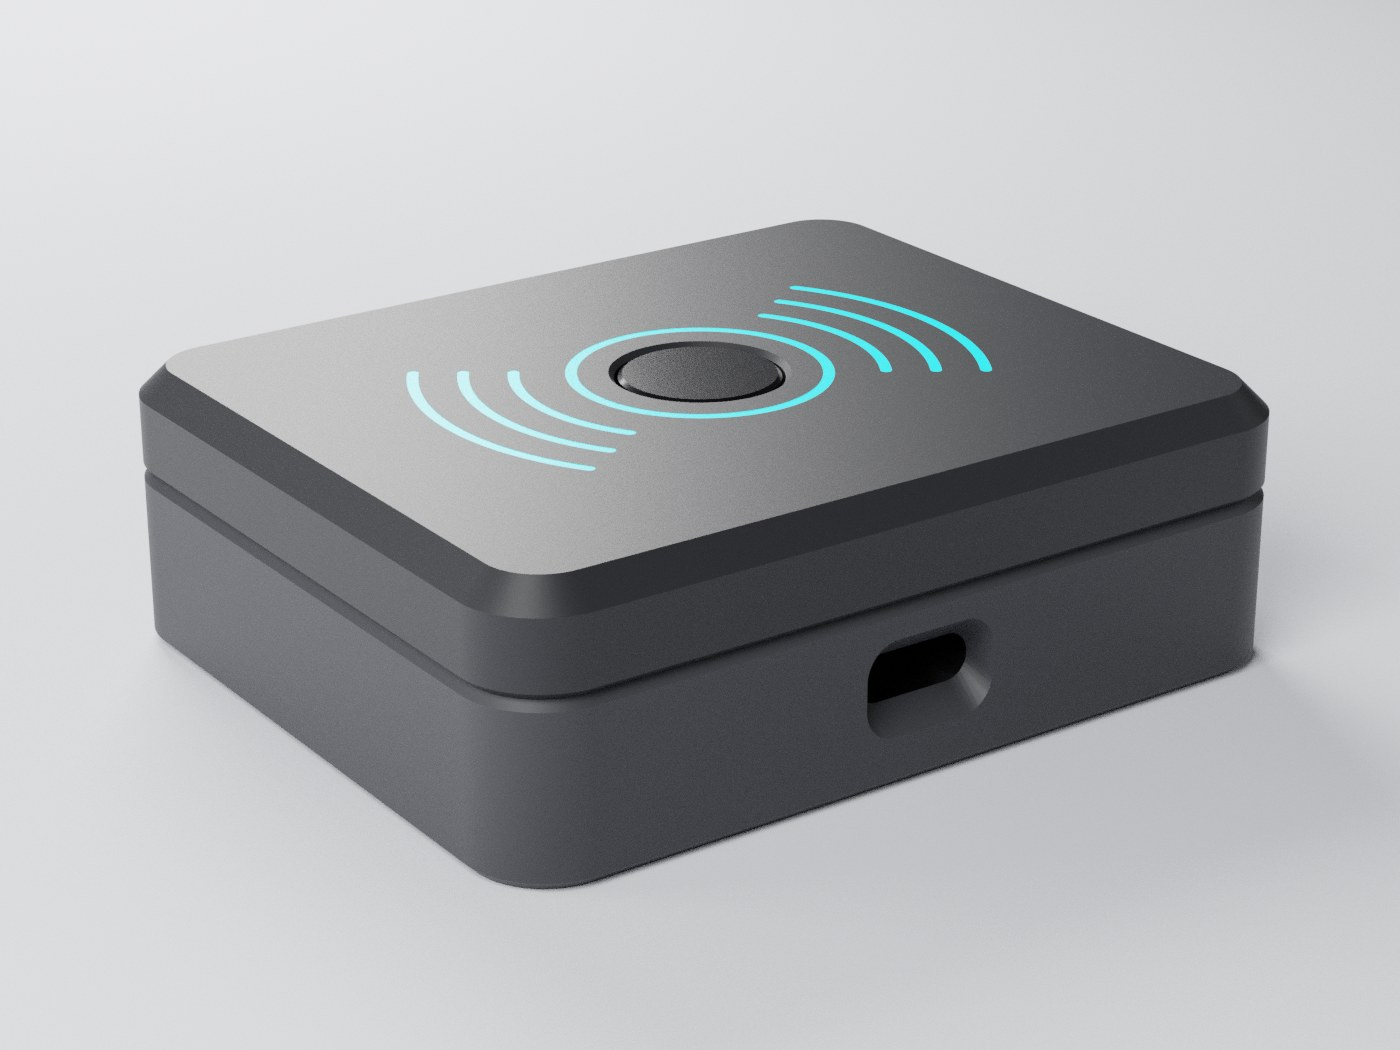
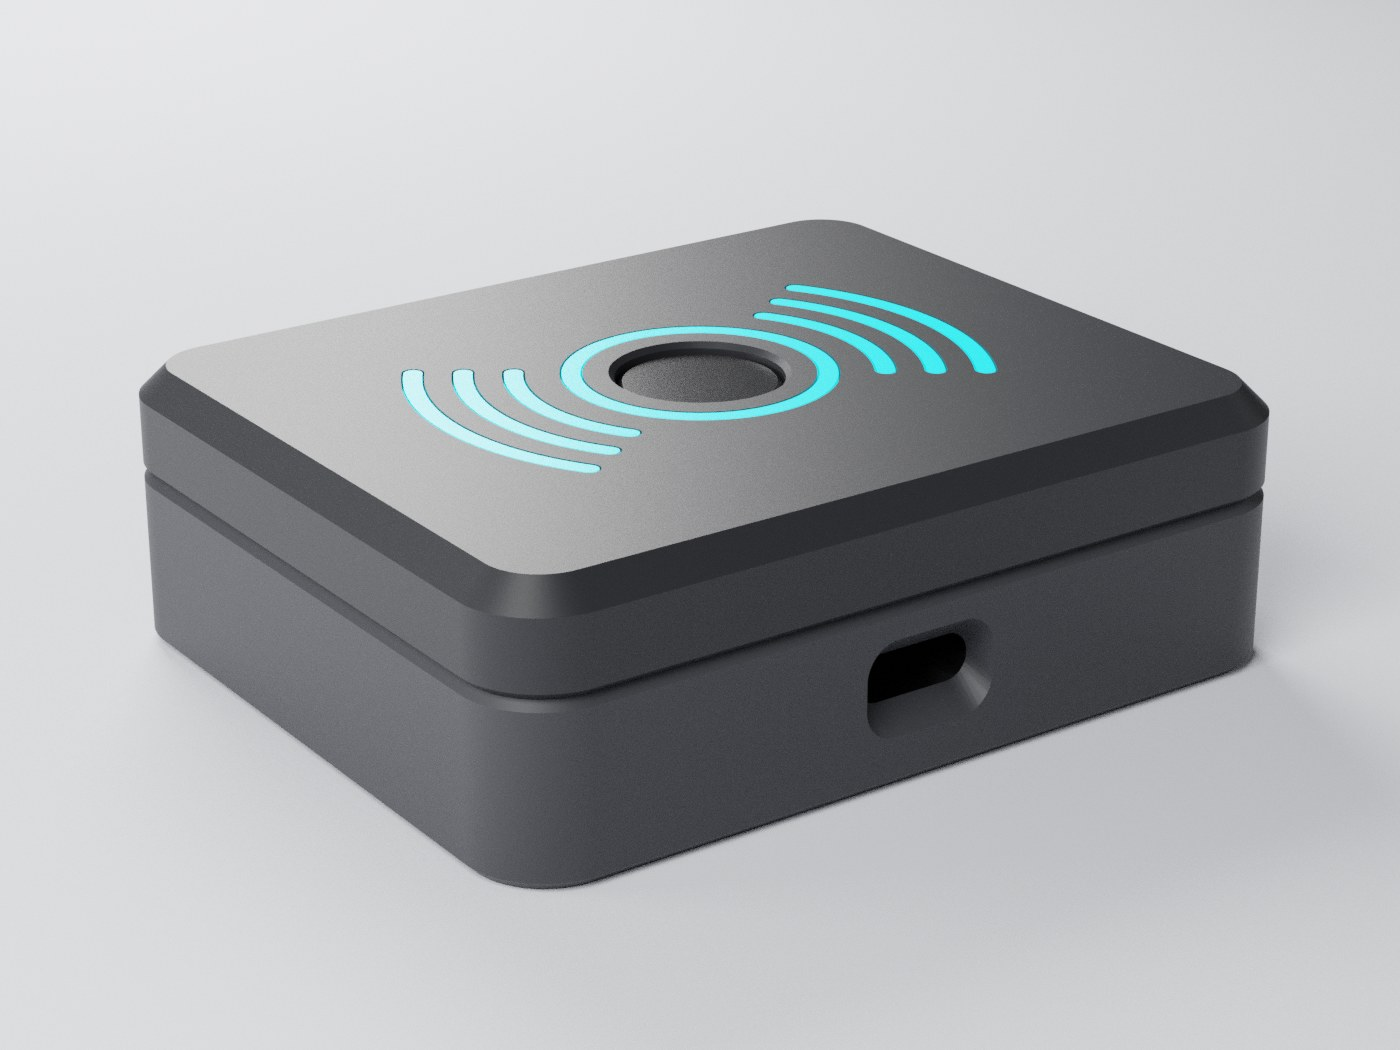
Ust desen: 1.6 x 1.2 mm oyuk ve ayri basilan dolgu parcalari
- Halka ve dalga oyuklari 0.8 -> 1.6 mm genis, 0.4 -> 1.2 mm derin
- Kapak tavani 2.0 -> 2.6 mm; oyuk altinda 1.4 mm kalir
- inlay_baski: oyuktan her kenardan 0.14 mm kucuk (inlay_bosluk),
  1.32 mm genis (0.4 nozulla 3 cizgi), 1.2 mm yuksek dolgu parcalari
- Alt yazi derinligi ayri parametre (0.4 mm)

Claude-Session: https://claude.ai/code/session_01Cw47JAQLn6ddWJcZ3qnMbE

Changed region(s): [[0.2764, 0.2743, 0.7064, 0.4571]]

diff --git a/README.md b/README.md
@@ -25,7 +25,7 @@ konnektorun kendi yuksekliginden hesaplanir (Z = 5.55 .. 8.95).
 ### Tasarim
 
 - Duz ust yuzey, 45 derece pahli ust kenar (isikta keskin bir cizgi verir)
-- Buton cevresinde hale halkasi ve iki yanda "(( o ))" jest dalgalari, 0.4 mm oyma
+- Buton cevresinde hale halkasi ve iki yanda "(( o ))" jest dalgalari: 1.6 mm genis, 1.2 mm derin oyuk + renkli dolgu
 - Kapak / govde birlesiminde 0.6 mm V-golge cizgisi; USB-C ve LED tamamen govdede, birlesim cizgisi portlari kesmiyor
 - Plan kose radiusu 8 -> 6 mm: daha "tech" gorunum
 
@@ -50,16 +50,18 @@ konnektorun kendi yuksekliginden hesaplanir (Z = 5.55 .. 8.95).
 |---|---|---|---|
 | Kapak | `kapak_baski` | ust yuzey | Dokulu PEI tabla premium mat doku verir |
 | Govde | `govde_baski` | taban | |
+| Dolgu | `inlay_baski` | duz | Vurgu renginde, oyuklara bastirilir |
 
 ```
 openscad -D 'goster="kapak_baski"' -o kapak.stl kontrolcukasa.scad
 openscad -D 'goster="govde_baski"' -o govde.stl kontrolcukasa.scad
+openscad -D 'goster="inlay_baski"' -o inlay.stl kontrolcukasa.scad
 ```
 
-**Renkli oyma (tek nozul):** 0.2 mm katmanla kapakta 0.4 mm'den sonraki ilk katmanda (3. katman)
-filament degistir (M600), bir sonraki katmanda ana renge don. Oyuklar vurgu renginde gorunur,
-ust pahta da ince bir vurgu cizgisi cikar. Cok renkli yazicida `inlay_baski` STL'ini kapakla
-ayni nesneye parca olarak ekle.
+**Renkli dolgu (inlay):** ust yuzeydeki halka ve dalgalar 1.6 mm genis, 1.2 mm derin oyuk (tavan 2.6 mm, oyuk altinda 1.4 mm kalir).
+Renkli dolgu parcalari (`inlay_baski`, 7 parca) ayri basilir ve oyuklara bastirilir: her kenardan
+0.14 mm kucuk (`inlay_bosluk`, 0.12 - 0.16 arasi ayarlanabilir): 1.32 mm genis (0.4 nozulla 3 cizgi), 1.2 mm yuksek.
+Gerekirse bir damla yapistiriciyla sabitle.
 
 ### Montaj sirasi
 
@@ -75,6 +77,7 @@ ayni nesneye parca olarak ekle.
 | `vida_d`, `havsa_d` | 2.4, 4.4 | M2 gecis deligi ve havsa capi |
 | `snap_int` | 0.4 | Kapak kilit sertligi |
 | `tirnak_x` | montaj delikleri yani | PCB bastirma tirnaklari; gerekirse `tirnak_on = false` |
+| `inlay_bosluk` | 0.14 | Dolgu parcasi her kenardan bu kadar kucuk |
 | `oyma_on`, `yazi_on` | true | Ust desen / alt yazi |
 | `pcb_goster` | false | Montaj gorunumlerinde PCB hayaleti |
 
